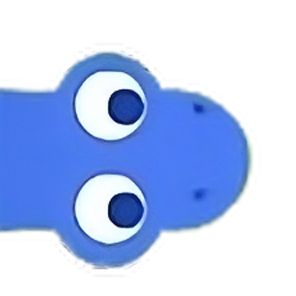
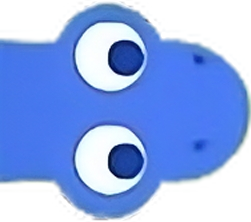
only need to do audio now

diff --git a/main.cpp b/main.cpp
@@ -78,14 +78,14 @@ int frame_count = 0;
 
 //  function declarations
 sf::Sprite rand_apple(sf::Sprite& the_apple_sprite);
-void move_snake();
+void move_snake(sf::Sprite& head_sprite);
 sf::Vector2f get_current_tile(sf::Transformable& item);
 sf::Vector2f get_center_position_of_tile(int x_tile, int y_tile);
 void add_tail(sf::CircleShape& last_tail);
 void move_tail(sf::CircleShape& current_tail, bool ready_to_move, int tail_iteration);
 float distance_between_two_pos(sf::Vector2f pos_one, sf::Vector2f pos_two);
 bool apple_is_on_snake(sf::Sprite& the_apple_sprite);
-void setup_snake();
+void setup_snake(sf::Sprite& head_sprite);
 sf::Color get_color();
 
 int main()
@@ -170,10 +170,60 @@ int main()
     apple_text.setPosition({ 79, -9 });
     /*TaskBar_AppleCount--End*/
     
+    /*Head Sprite*/
+
+
+    sf::Texture inky_head;
+    if (!inky_head.loadFromFile("inky_head.png"))  return -1;
+    inky_head.setSmooth(true);
+
+    sf::Texture pinky_head;
+    if (!pinky_head.loadFromFile("pinky_head.png"))  return -1;
+    pinky_head.setSmooth(true);
+
+    sf::Texture blinky_head;
+    if (!blinky_head.loadFromFile("blinky_head.png"))  return -1;
+    blinky_head.setSmooth(true);
+
+    sf::Texture clyde_head;
+    if (!clyde_head.loadFromFile("clyde_head.png"))  return -1;
+    clyde_head.setSmooth(true);
+
+
+    sf::Sprite head_sprite(blinky_head);
+    sf::FloatRect bounds = head_sprite.getLocalBounds();
+    head_sprite.setOrigin(bounds.getCenter());
+
+    sf::Vector2u head_texture_size = clyde_head.getSize();
+    // Calculate the scale factors
+    float head_scale_x = 60.f / head_texture_size.x;
+    float head_scale_y = 60.f / head_texture_size.y;
+
+    head_sprite.setScale(sf::Vector2f (head_scale_x, head_scale_y));
+
+    /*Head Sprite-end*/
+
+
     /*Main Menu--Start*/
 
 
     //scoreboard
+    sf::RectangleShape reset_btn({ 100.f, 40.f });
+    reset_btn.setFillColor(sf::Color(87, 138, 52));
+    reset_btn.setPosition(sf::Vector2f((window.getSize().x / 2) + 102 -10 , (window.getSize().y / 2) - 336));
+    reset_btn.setOutlineThickness(8.f);
+    reset_btn.setOutlineColor(sf::Color(74, 117, 44));
+
+    sf::Text reset_text(aligatai_font);
+    reset_text.setString("Reset");
+    reset_text.setFillColor(sf::Color::Black);
+    reset_text.setCharacterSize(50);
+    reset_text.setPosition(sf::Vector2f((window.getSize().x / 2) + 102 -10 + 2, (window.getSize().y / 2) - 350));
+
+
+    sf::RectangleShape line({ 3, 3 });
+    line.setFillColor(sf::Color::Black);
+
     sf::Font minecraftia_font("Minecraftia_Regular.ttf");
 
     sf::Text title_text(minecraftia_font);
@@ -182,7 +232,7 @@ int main()
     title_text.setFillColor(sf::Color::White);
     title_text.setPosition(sf::Vector2f(274,145));
     title_text.setOutlineColor(sf::Color::Black);
-    title_text.setOutlineThickness(1.f);
+    title_text.setOutlineThickness(2.f);
 
     sf::Text rank_text(minecraftia_font);
     rank_text.setCharacterSize(18);
@@ -323,9 +373,6 @@ int main()
     scale_y = snake_images_size.y / texture_size.y;
     clyde_image.setScale({ scale_x, scale_y });
     clyde_image.setPosition(sf::Vector2f((window.getSize().x / 2) - 195, background_rectangle.getPosition().y + 112));
-
-
-
 
 
     sf::RectangleShape top_left_btn({ 188.f, 122.f });
@@ -535,11 +582,12 @@ int main()
 
                     if (tail.active && distance_between_two_pos(tail.shape.getPosition(), sh.shape.getPosition()) < 15) current_state = GameState::GAME_OVER;
                     
-                    
-
                 }
-                move_snake();
+                move_snake(head_sprite);
                 window.draw(sh.shape);
+                head_sprite.setPosition(sf::Vector2f(sh.shape.getPosition().x + 20, sh.shape.getPosition().y + 20));
+                window.draw(head_sprite);
+
                 sf::Vector2f snake_pos = sh.shape.getPosition();
                 if (!(snake_pos.x > 25 && snake_pos.x < 765) || !(snake_pos.y > 105 && snake_pos.y < 763)) current_state = GameState::GAME_OVER; 
                 
@@ -581,10 +629,7 @@ int main()
                 apple_text.setString(std::to_string(apples_eaten));
                 window.draw(apple_text);
 
-
                 window.draw(apple_sprite);
-
-
 
                 window.draw(task_bar_apple);
 
@@ -603,9 +648,14 @@ int main()
                 window.draw(play_text);
                 window.draw(player_slctn_text);
                 window.draw(exit_text);
+                
+                for (int c = 0; c < 77; c++) { // 233
+                    line.setPosition(sf::Vector2f( 446, 167 + c*3 ));
+                    if (c % 2 == 0) window.draw(line);
+                }
+                
 
-
-                //score board
+                /*score board*/
                 window.draw(title_text);
 
 
@@ -668,7 +718,7 @@ int main()
                         rank_text.setString(data.which_snake);
                         window.draw(rank_text);
 
-                        rank_text.setPosition(sf::Vector2f(500, 183 + i * 34));
+                        rank_text.setPosition(sf::Vector2f(470, 183 + i * 34));
 
                         if (data.apples< 10) rank_text.setString("000" + std::to_string(data.apples));
                         else if (data.apples < 100) rank_text.setString("00" + std::to_string(data.apples));
@@ -677,7 +727,6 @@ int main()
                         window.draw(rank_text);
 
                     }
-
                 }
 
 
@@ -700,7 +749,7 @@ int main()
                         adjustment = 0;
                         apple_sprite.setPosition({ -40 + 19.5 + (13 * 44), 70 + -25 + (8 * 44) });
 
-                        setup_snake();
+                        setup_snake(head_sprite);
                         current_state = GameState::GAME_PLAY;
                         sf::sleep(sf::seconds(.3f));
 
@@ -727,7 +776,24 @@ int main()
                     exit_btn_rectangle.setOutlineColor(sf::Color::Transparent);
                 }
 
-                
+
+                if (reset_btn.getGlobalBounds().contains(mouseWorldPos)) {
+                    reset_btn.setFillColor(sf::Color::Red);
+                    if (sf::Mouse::isButtonPressed(sf::Mouse::Button::Left)) {
+                        // reset file
+
+                        // ofs = output_file_stream
+                        std::ofstream ofs("scoreboard.txt", std::ofstream::trunc);
+                        ofs.close();
+                    }
+                }
+                else {
+                    reset_btn.setFillColor(sf::Color(87, 138, 52));
+                }
+
+                window.draw(reset_btn);
+                window.draw(reset_text);
+
                 break;
             }
             case GameState::PLAYER_SELECTION: {
@@ -762,7 +828,6 @@ int main()
                 std::array<sf::Text*, 4> texts = { &btm_left_text, &btm_right_text, &top_left_text, &top_right_text };
                 std::array<sf::RectangleShape*, 4> buttons = { &btm_left_btn, &btm_right_btn, &top_left_btn, &top_right_btn };
 
-
                 //more pointerfying: If you have a pointer to an object, you use '->' to access its members (like functions or variables), instead of '.' which is used for regular non-pointer objects. A '->' is a member access operator 
                 // imagine if all the '->' were replaced with the '.' , its not that complicated - just another operator that does almost the same thing
                 for (int i = 0; i < 4; i++) {
@@ -771,10 +836,10 @@ int main()
                         if (sf::Mouse::isButtonPressed(sf::Mouse::Button::Left)) {
 
                             switch (i) {
-                                case 0: current_color = SnakeColor::PINKY; break;
-                                case 1: current_color = SnakeColor::CLYDE; break;
-                                case 2: current_color = SnakeColor::BLINKY; break;
-                                case 3: current_color = SnakeColor::INKY; break;
+                            case 0: current_color = SnakeColor::PINKY; head_sprite.setTexture(pinky_head); break;
+                                case 1: current_color = SnakeColor::CLYDE; head_sprite.setTexture(clyde_head); break;
+                                case 2: current_color = SnakeColor::BLINKY; head_sprite.setTexture(blinky_head); break;
+                                case 3: current_color = SnakeColor::INKY; head_sprite.setTexture(inky_head); break;
                             }
 
                             for (int b = 0; b < 4; b++) {
@@ -879,7 +944,7 @@ int main()
                         frame_count = 0;
                         adjustment = 0;
                         apple_sprite.setPosition({ -40 + 19.5 + (13 * 44), 70 + -25 + (8 * 44) });
-                        setup_snake();
+                        setup_snake(head_sprite);
 
                         current_state = GameState::GAME_PLAY;
                         sf::sleep(sf::seconds(.3f));
@@ -944,7 +1009,7 @@ sf::Sprite rand_apple(sf::Sprite& the_apple_sprite) {
     return the_apple_sprite;
 }
 
-void move_snake() {
+void move_snake(sf::Sprite& head_sprite) {
    
     TailVectorData& data = snake_tail_vec[0];
     sf::CircleShape& the_snake_circle = data.shape;
@@ -981,13 +1046,19 @@ void move_snake() {
             x_velocity = need_turn[0].x;
             y_velocity = need_turn[0].y;
             where_tail_turn = the_snake_circle.getPosition();
+            if (x_velocity > 0) head_sprite.setRotation(sf::degrees(0.f));
+            if (x_velocity < 0) head_sprite.setRotation(sf::degrees(180.f));
+            if (y_velocity > 0) head_sprite.setRotation(sf::degrees(90.f));
+            if (y_velocity < 0) head_sprite.setRotation(sf::degrees(270.f));
+
         }
         need_turn.pop_front();
     }
     
     
      the_snake_circle.move(sf::Vector2f(x_velocity, y_velocity));
-    
+     
+
      data.every_position.push_back(the_snake_circle.getPosition());
 
      
@@ -1057,7 +1128,10 @@ float distance_between_two_pos(sf::Vector2f pos_one, sf::Vector2f pos_two) {
     return distance;
 }
 
-void setup_snake() {
+void setup_snake(sf::Sprite& head_sprite) {
+
+    head_sprite.setPosition({ -20 + 25 + 22 + (44 * (4 - 1))+20, -20 + 105 + 22 + (44 * (8 - 1))+20  });
+    head_sprite.setRotation(sf::degrees(0.f));
     /*Snake_head--Start*/
     sf::CircleShape snake_head(20.f);
     snake_head.setFillColor(get_color());
